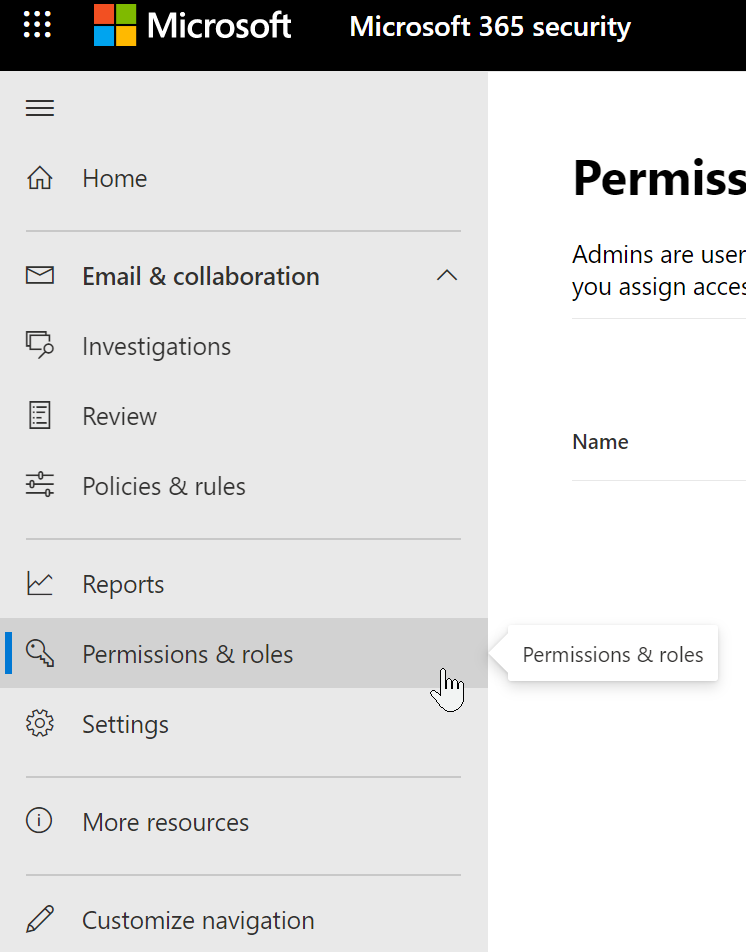
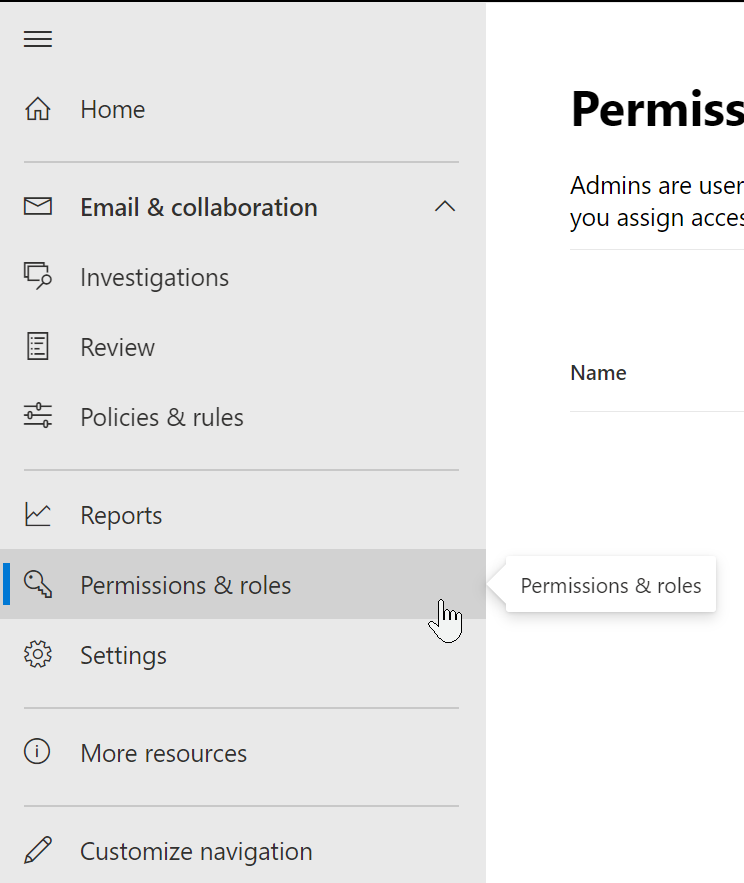
Rebranding

diff --git a/learn-m365-pr/m365/m365-getting-started-microsoft-365-defender/includes/manage-access-microsoft-365-defender.md b/learn-m365-pr/m365/m365-getting-started-microsoft-365-defender/includes/manage-access-microsoft-365-defender.md
@@ -22,9 +22,9 @@ Custom Roles provide your security team with only the access needed using the le
 
 ## Permissions and roles
 
-To manage access to Microsoft 365 Defender, you'll need to assign permissions and roles to your users. Permissions and roles are managed in the Microsoft 365 security center.
+To manage access to Microsoft 365 Defender, you'll need to assign permissions and roles to your users. Permissions and roles are managed in the Microsoft 365 Defender portal.
 
-1. Sign in to the Microsoft 365 security center at **[security.microsoft.com](https://security.microsoft.com)**.
+1. Sign in to the Microsoft 365 Defender portal at **[security.microsoft.com](https://security.microsoft.com)**.
 
 1. In the navigation pane, select Permissions & roles.
 

diff --git a/learn-m365-pr/m365/m365-getting-started-microsoft-365-defender/includes/getting-started-microsoft-365-defender.md b/learn-m365-pr/m365/m365-getting-started-microsoft-365-defender/includes/getting-started-microsoft-365-defender.md
@@ -10,7 +10,7 @@ Next, you'll need to deploy the supported services that come with Microsoft 365 
 
 ### Check Licenses
 
-A license to a Microsoft 365 security product generally entitles you to use Microsoft 365 Defender in Microsoft 365 security center without extra licensing cost.
+A license to a Microsoft 365 security product generally entitles you to use Microsoft 365 Defender in Microsoft 365 Defender portal without extra licensing cost.
 
 For detailed licensing information, [read the licensing requirements](/microsoft-365/security/defender/prerequisites?view=o365-worldwide#licensing-requirements&preserve-view=true).
 
